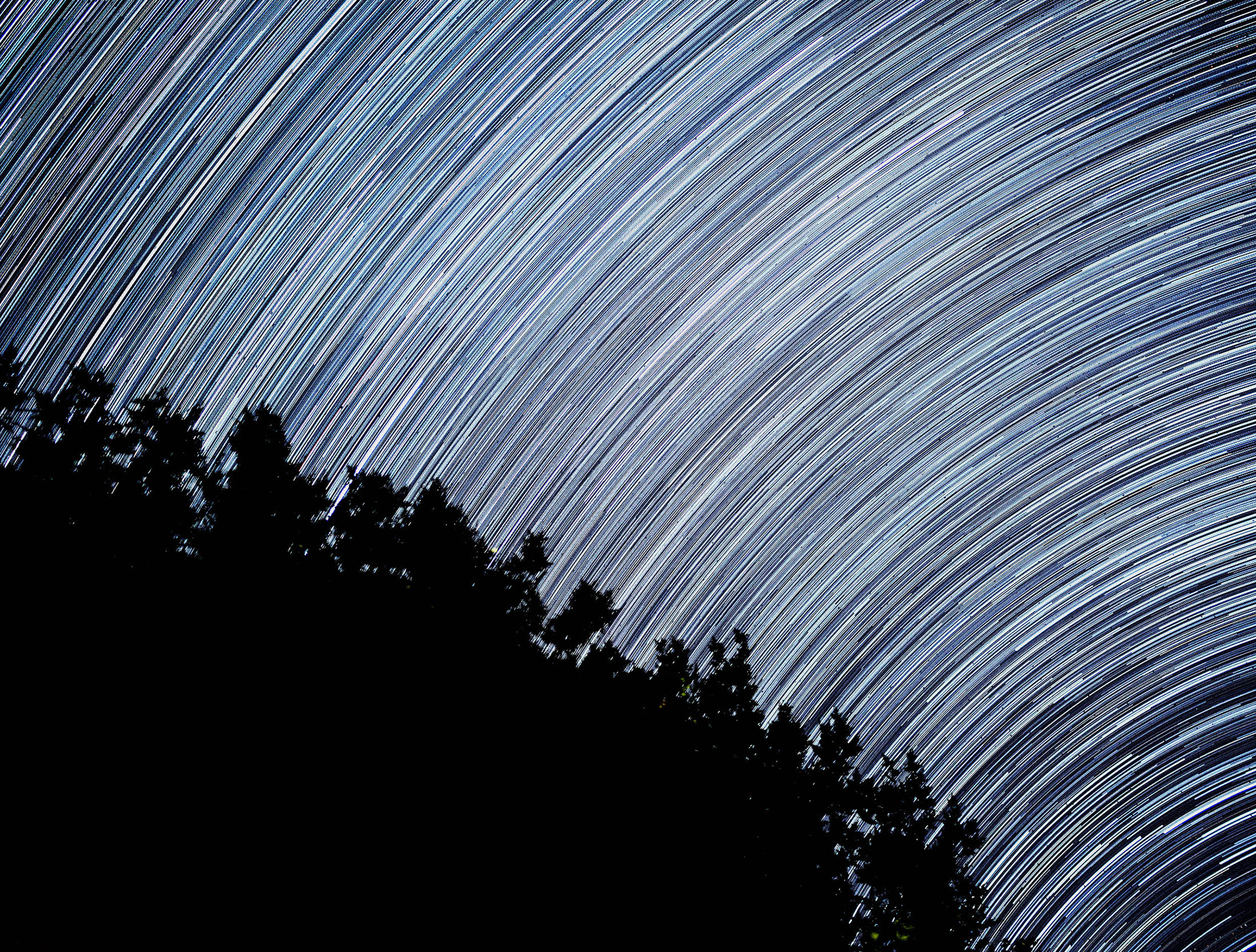
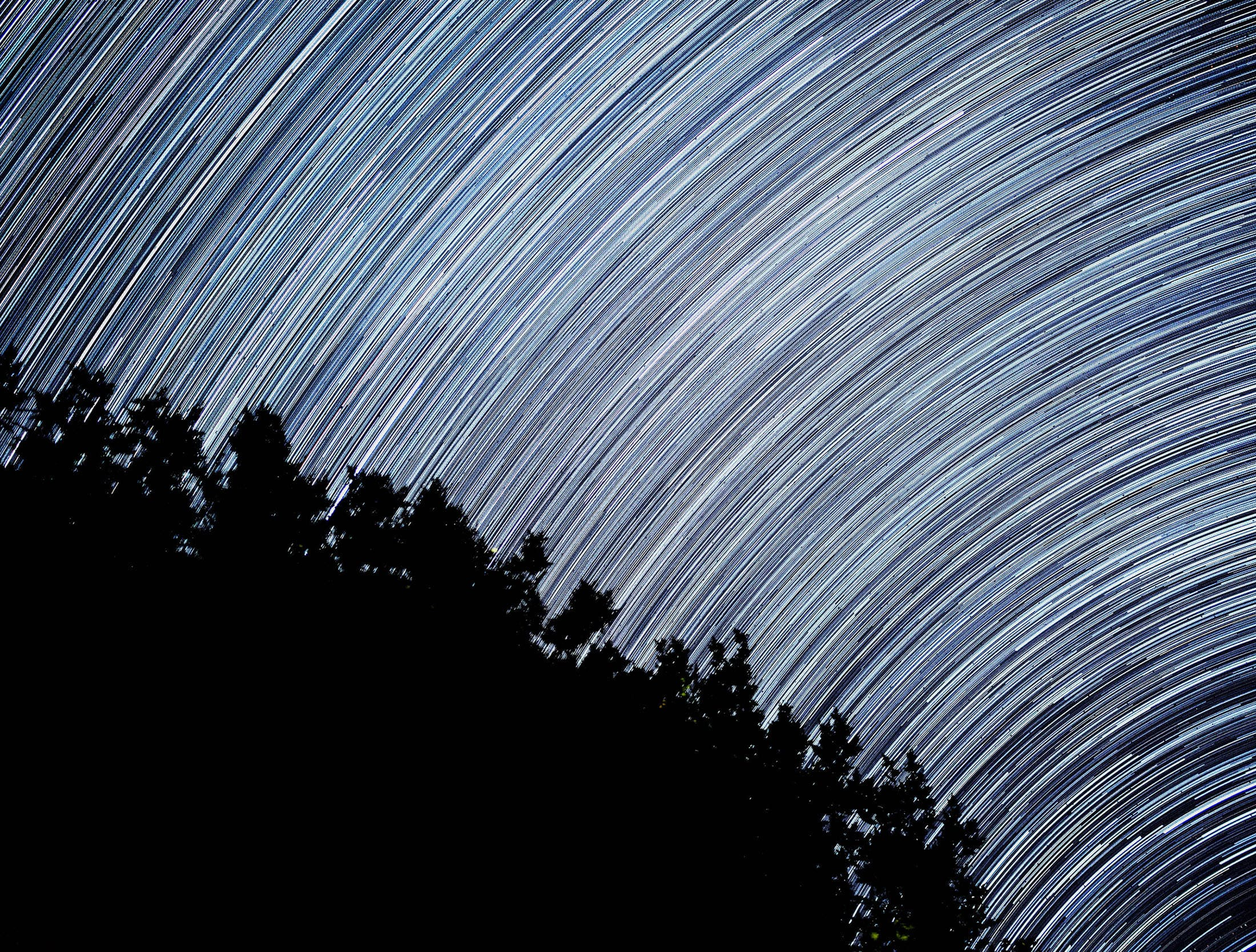
compress image

Changed region(s): [[0.0, 0.0, 1.0, 1.0], [0.9582, 0.967, 1.0, 1.0]]

diff --git a/assets/css/main.css b/assets/css/main.css
@@ -534,7 +534,7 @@ a:hover {
 
     opacity: 0;
     border: 5px solid #fff;
-    background: red;
+    background: #EB6500;
     background-image: url(../img/card-background.jpg);
     background-position: center;
     background-size: cover;
